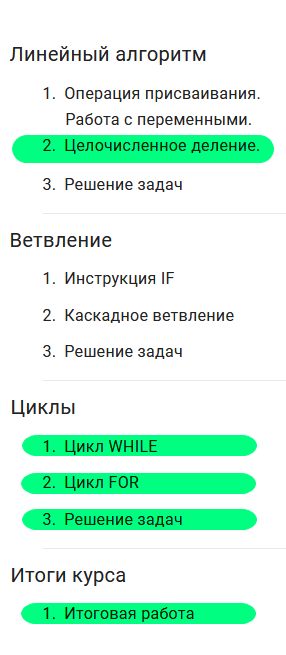
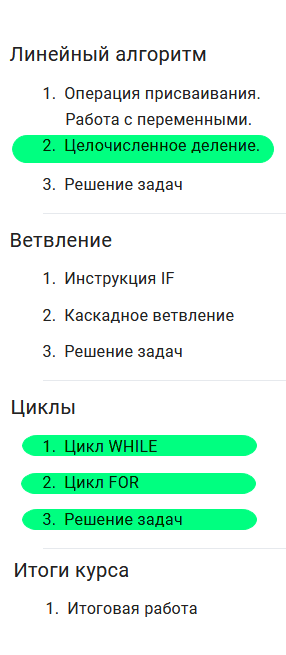
next-lesson-23-init-0

Changed region(s): [[0.028, 0.855, 0.8951, 0.9771]]

diff --git a/lesson-23.html b/lesson-23.html
@@ -1,10 +1,10 @@
 <!DOCTYPE html>
 <html lang="en">
 <head>
-  <title>Урок 22 | ОГЭ 2023 информатика</title>
+  <title>Урок 23 | ОГЭ 2023 информатика</title>
   <meta charset="utf-8">
 <!--
-<meta name="description" content="Stepik 63223: Курc по Пайтону (Циклы, Решение задач)"><meta name="author" content="andygram">-->
+<meta name="description" content="Stepik 63223: Курc по Пайтону (Итоговая работа)"><meta name="author" content="andygram">-->
   <meta name="viewport" content="initial-scale=1, maximum-scale=1" />
   <meta http-equiv="Cache-Control" content="max-age=604800, must-revalidate" />
   <link href="./theme/css/screen.css" rel="stylesheet" type="text/css" />
@@ -20,15 +20,15 @@
     <div class="nav">
     </div>
 </div>    <div id="main">
-<h2><a href="./lesson-22.html">Урок 22</a></h2>
-<h5><i class="icon-feather"></i> 21.03.2023, Вт
+<h2><a href="./lesson-23.html">Урок 23</a></h2>
+<h5><i class="icon-feather"></i> 27.03.2023, Пн
 <i class="icon-bookmarks"></i>
 <span><a href="./tag/lesson.html">lesson</a> / </span>
 </h5>
 
 <p><a href="https://stepik.org/course/63223/promo" target="_blank">[Stepik 63223] Курс по пайтону Сергея Спиркина</a></p>
 <p><img alt="pic" src="./images/stepik-course-63223-python.png"></p>
-<p><img alt="pic" src="./images/stepik-course-63223-content2.png"></p>
+<p><img alt="pic" src="./images/stepik-course-63223-content3.png"></p>
 
 <p align="center"><a href="#">on the top</a></p>
     </div>

diff --git a/category/oge.html b/category/oge.html
@@ -20,9 +20,12 @@
     <div class="nav">
     </div>
 </div>    <div id="main">
+<h2><a href="../lesson-23.html">Урок 23</a></h2>
+<h5><i class="icon-feather"></i> 27.03.2023, Пн </h5>
+Stepik 63223: Курc по Пайтону (Итоговая работа)
 <h2><a href="../lesson-22.html">Урок 22</a></h2>
 <h5><i class="icon-feather"></i> 21.03.2023, Вт </h5>
-Stepik 63223: Курc по Пайтону (Циклы, Решение задач, Итоговая работа)
+Stepik 63223: Курc по Пайтону (Циклы, Решение задач)
 <h2><a href="../lesson-21.html">Урок 21</a></h2>
 <h5><i class="icon-feather"></i> 14.03.2023, Вт </h5>
 Stepik 63223: Курc по Пайтону (Линейный алгоритм, Ветвление)
@@ -32,9 +35,6 @@ Stepik 63223: Курc по Пайтону (Линейный алгоритм, В
 <h2><a href="../lesson-19.html">Урок 19</a></h2>
 <h5><i class="icon-feather"></i> 28.02.2023, Вт </h5>
 Повторение: Задание 6 (Анализ программного кода) while
-<h2><a href="../lesson-18.html">Урок 18</a></h2>
-<h5><i class="icon-feather"></i> 21.02.2023, Вт </h5>
-Повторение: Задание 6 (Анализ программного кода) for
 <div class="pagination">
     page 1 of 6.
         <a href="../category/oge2.html">Next&rarr;</a>

diff --git a/index.html b/index.html
@@ -20,9 +20,12 @@
     <div class="nav">
     </div>
 </div>    <div id="main">
+<h2><a href="./lesson-23.html">Урок 23</a></h2>
+<h5><i class="icon-feather"></i> 27.03.2023, Пн </h5>
+Stepik 63223: Курc по Пайтону (Итоговая работа)
 <h2><a href="./lesson-22.html">Урок 22</a></h2>
 <h5><i class="icon-feather"></i> 21.03.2023, Вт </h5>
-Stepik 63223: Курc по Пайтону (Циклы, Решение задач, Итоговая работа)
+Stepik 63223: Курc по Пайтону (Циклы, Решение задач)
 <h2><a href="./lesson-21.html">Урок 21</a></h2>
 <h5><i class="icon-feather"></i> 14.03.2023, Вт </h5>
 Stepik 63223: Курc по Пайтону (Линейный алгоритм, Ветвление)
@@ -32,9 +35,6 @@ Stepik 63223: Курc по Пайтону (Линейный алгоритм, В
 <h2><a href="./lesson-19.html">Урок 19</a></h2>
 <h5><i class="icon-feather"></i> 28.02.2023, Вт </h5>
 Повторение: Задание 6 (Анализ программного кода) while
-<h2><a href="./lesson-18.html">Урок 18</a></h2>
-<h5><i class="icon-feather"></i> 21.02.2023, Вт </h5>
-Повторение: Задание 6 (Анализ программного кода) for
 <div class="pagination">
     page 1 of 7.
         <a href="./index2.html">Next&rarr;</a>

diff --git a/category/oge5.html b/category/oge5.html
@@ -20,6 +20,9 @@
     <div class="nav">
     </div>
 </div>    <div id="main">
+<h2><a href="../lesson-03.html">Урок 3</a></h2>
+<h5><i class="icon-feather"></i> 04.10.2022, Вт </h5>
+Разбор задания 9 (Схема дорог)
 <h2><a href="../lesson-02.html">Урок 2</a></h2>
 <h5><i class="icon-feather"></i> 27.09.2022, Вт </h5>
 Разбор задания 10 (Системы счисления)
@@ -32,9 +35,6 @@
 <h2><a href="../evich_book.html">Книга</a></h2>
 <h5><i class="icon-feather"></i> 15.09.2022, Чт </h5>
 Людмила Николаевна Евич. ОГЭ-2021 Информатика и ИКТ. Подготовка к ОГЭ-2021. 9 класс. 20 тренировочных вариантов по демоверсии 2021 года.
-<h2><a href="../oge_fipi.html">Ф И П И</a></h2>
-<h5><i class="icon-feather"></i> 13.09.2022, Вт </h5>
-Федеральный институт педагогических измерений. Пояснения к демонстрационному варианту контрольных измерительных материалов основного государственного экзамена 2023 года.
 <div class="pagination">
         <a href="../category/oge4.html">&larr;Prev</a>
     page 5 of 6.

diff --git a/index6.html b/index6.html
@@ -20,6 +20,9 @@
     <div class="nav">
     </div>
 </div>    <div id="main">
+<h2><a href="./py_memo.html">Питончик</a></h2>
+<h5><i class="icon-feather"></i> 17.09.2022, Сб </h5>
+Шпаргалка по языку Python
 <h2><a href="./evich_answers.html">Ответы</a></h2>
 <h5><i class="icon-feather"></i> 16.09.2022, Пт </h5>
 Людмила Николаевна Евич. ОГЭ-2021 Информатика и ИКТ. Подготовка к ОГЭ-2021. 9 класс. 20 тренировочных вариантов по демоверсии 2021 года.
@@ -32,9 +35,6 @@
 <h2><a href="./oge_fipi.html">Ф И П И</a></h2>
 <h5><i class="icon-feather"></i> 13.09.2022, Вт </h5>
 Федеральный институт педагогических измерений. Пояснения к демонстрационному варианту контрольных измерительных материалов основного государственного экзамена 2023 года.
-<h2><a href="./calendar-year.html">Учебный год</a></h2>
-<h5><i class="icon-feather"></i> 12.09.2022, Пн </h5>
-Календарь на 2022-2023 учебный год
 <div class="pagination">
         <a href="./index5.html">&larr;Prev</a>
     page 6 of 7.

diff --git a/category/oge2.html b/category/oge2.html
@@ -20,6 +20,9 @@
     <div class="nav">
     </div>
 </div>    <div id="main">
+<h2><a href="../lesson-18.html">Урок 18</a></h2>
+<h5><i class="icon-feather"></i> 21.02.2023, Вт </h5>
+Повторение: Задание 6 (Анализ программного кода) for
 <h2><a href="../lesson-17.html">Урок 17</a></h2>
 <h5><i class="icon-feather"></i> 07.02.2023, Вт </h5>
 Повторение: Задания 5 (Вычислитель) и 4 (Расстояние)
@@ -32,9 +35,6 @@
 <h2><a href="../lesson-14.html">Урок 14</a></h2>
 <h5><i class="icon-feather"></i> 14.01.2023, Сб </h5>
 Решение заданий первой части
-<h2><a href="../lesson-13.html">Урок 13</a></h2>
-<h5><i class="icon-feather"></i> 11.01.2023, Ср </h5>
-Разбор задания 5 (Вычислитель)
 <div class="pagination">
         <a href="../category/oge.html">&larr;Prev</a>
     page 2 of 6.

diff --git a/index2.html b/index2.html
@@ -20,6 +20,9 @@
     <div class="nav">
     </div>
 </div>    <div id="main">
+<h2><a href="./lesson-18.html">Урок 18</a></h2>
+<h5><i class="icon-feather"></i> 21.02.2023, Вт </h5>
+Повторение: Задание 6 (Анализ программного кода) for
 <h2><a href="./lesson-17.html">Урок 17</a></h2>
 <h5><i class="icon-feather"></i> 07.02.2023, Вт </h5>
 Повторение: Задания 5 (Вычислитель) и 4 (Расстояние)
@@ -32,9 +35,6 @@
 <h2><a href="./lesson-14.html">Урок 14</a></h2>
 <h5><i class="icon-feather"></i> 14.01.2023, Сб </h5>
 Решение заданий первой части
-<h2><a href="./lesson-13.html">Урок 13</a></h2>
-<h5><i class="icon-feather"></i> 11.01.2023, Ср </h5>
-Разбор задания 5 (Вычислитель)
 <div class="pagination">
         <a href="./index.html">&larr;Prev</a>
     page 2 of 7.

diff --git a/category/oge3.html b/category/oge3.html
@@ -20,6 +20,9 @@
     <div class="nav">
     </div>
 </div>    <div id="main">
+<h2><a href="../lesson-13.html">Урок 13</a></h2>
+<h5><i class="icon-feather"></i> 11.01.2023, Ср </h5>
+Разбор задания 5 (Вычислитель)
 <h2><a href="../lesson-12.html">Урок 12</a></h2>
 <h5><i class="icon-feather"></i> 20.12.2022, Вт </h5>
 Разбор задания 1 (Биты и байты)
@@ -32,9 +35,6 @@
 <h2><a href="../lesson-09.html">Урок 9</a></h2>
 <h5><i class="icon-feather"></i> 22.11.2022, Вт </h5>
 Разбор задания 4 (Кратчайшее расстояние)
-<h2><a href="../lesson-08.html">Урок 8</a></h2>
-<h5><i class="icon-feather"></i> 08.11.2022, Вт </h5>
-Разбор задания 6 (Бесконечный цикл)
 <div class="pagination">
         <a href="../category/oge2.html">&larr;Prev</a>
     page 3 of 6.

diff --git a/category/oge4.html b/category/oge4.html
@@ -20,6 +20,9 @@
     <div class="nav">
     </div>
 </div>    <div id="main">
+<h2><a href="../lesson-08.html">Урок 8</a></h2>
+<h5><i class="icon-feather"></i> 08.11.2022, Вт </h5>
+Разбор задания 6 (Бесконечный цикл)
 <h2><a href="../lesson-07.html">Урок 7</a></h2>
 <h5><i class="icon-feather"></i> 01.11.2022, Вт </h5>
 Разбор задания 6 (Конечный цикл)
@@ -32,9 +35,6 @@
 <h2><a href="../lesson-04.html">Урок 4</a></h2>
 <h5><i class="icon-feather"></i> 11.10.2022, Вт </h5>
 Разбор задания 8 (Поисковый запрос)
-<h2><a href="../lesson-03.html">Урок 3</a></h2>
-<h5><i class="icon-feather"></i> 04.10.2022, Вт </h5>
-Разбор задания 9 (Схема дорог)
 <div class="pagination">
         <a href="../category/oge3.html">&larr;Prev</a>
     page 4 of 6.

diff --git a/index3.html b/index3.html
@@ -20,6 +20,9 @@
     <div class="nav">
     </div>
 </div>    <div id="main">
+<h2><a href="./lesson-13.html">Урок 13</a></h2>
+<h5><i class="icon-feather"></i> 11.01.2023, Ср </h5>
+Разбор задания 5 (Вычислитель)
 <h2><a href="./lesson-12.html">Урок 12</a></h2>
 <h5><i class="icon-feather"></i> 20.12.2022, Вт </h5>
 Разбор задания 1 (Биты и байты)
@@ -32,9 +35,6 @@
 <h2><a href="./lesson-09.html">Урок 9</a></h2>
 <h5><i class="icon-feather"></i> 22.11.2022, Вт </h5>
 Разбор задания 4 (Кратчайшее расстояние)
-<h2><a href="./lesson-08.html">Урок 8</a></h2>
-<h5><i class="icon-feather"></i> 08.11.2022, Вт </h5>
-Разбор задания 6 (Бесконечный цикл)
 <div class="pagination">
         <a href="./index2.html">&larr;Prev</a>
     page 3 of 7.

diff --git a/index5.html b/index5.html
@@ -20,6 +20,9 @@
     <div class="nav">
     </div>
 </div>    <div id="main">
+<h2><a href="./lesson-03.html">Урок 3</a></h2>
+<h5><i class="icon-feather"></i> 04.10.2022, Вт </h5>
+Разбор задания 9 (Схема дорог)
 <h2><a href="./lesson-02.html">Урок 2</a></h2>
 <h5><i class="icon-feather"></i> 27.09.2022, Вт </h5>
 Разбор задания 10 (Системы счисления)
@@ -32,9 +35,6 @@
 <h2><a href="./py_youtube.html">Видеоуроки</a></h2>
 <h5><i class="icon-feather"></i> 18.09.2022, Вс </h5>
 Youtube: Короткие видеоуроки по Пайтону
-<h2><a href="./py_memo.html">Питончик</a></h2>
-<h5><i class="icon-feather"></i> 17.09.2022, Сб </h5>
-Шпаргалка по языку Python
 <div class="pagination">
         <a href="./index4.html">&larr;Prev</a>
     page 5 of 7.

diff --git a/index4.html b/index4.html
@@ -20,6 +20,9 @@
     <div class="nav">
     </div>
 </div>    <div id="main">
+<h2><a href="./lesson-08.html">Урок 8</a></h2>
+<h5><i class="icon-feather"></i> 08.11.2022, Вт </h5>
+Разбор задания 6 (Бесконечный цикл)
 <h2><a href="./lesson-07.html">Урок 7</a></h2>
 <h5><i class="icon-feather"></i> 01.11.2022, Вт </h5>
 Разбор задания 6 (Конечный цикл)
@@ -32,9 +35,6 @@
 <h2><a href="./lesson-04.html">Урок 4</a></h2>
 <h5><i class="icon-feather"></i> 11.10.2022, Вт </h5>
 Разбор задания 8 (Поисковый запрос)
-<h2><a href="./lesson-03.html">Урок 3</a></h2>
-<h5><i class="icon-feather"></i> 04.10.2022, Вт </h5>
-Разбор задания 9 (Схема дорог)
 <div class="pagination">
         <a href="./index3.html">&larr;Prev</a>
     page 4 of 7.
